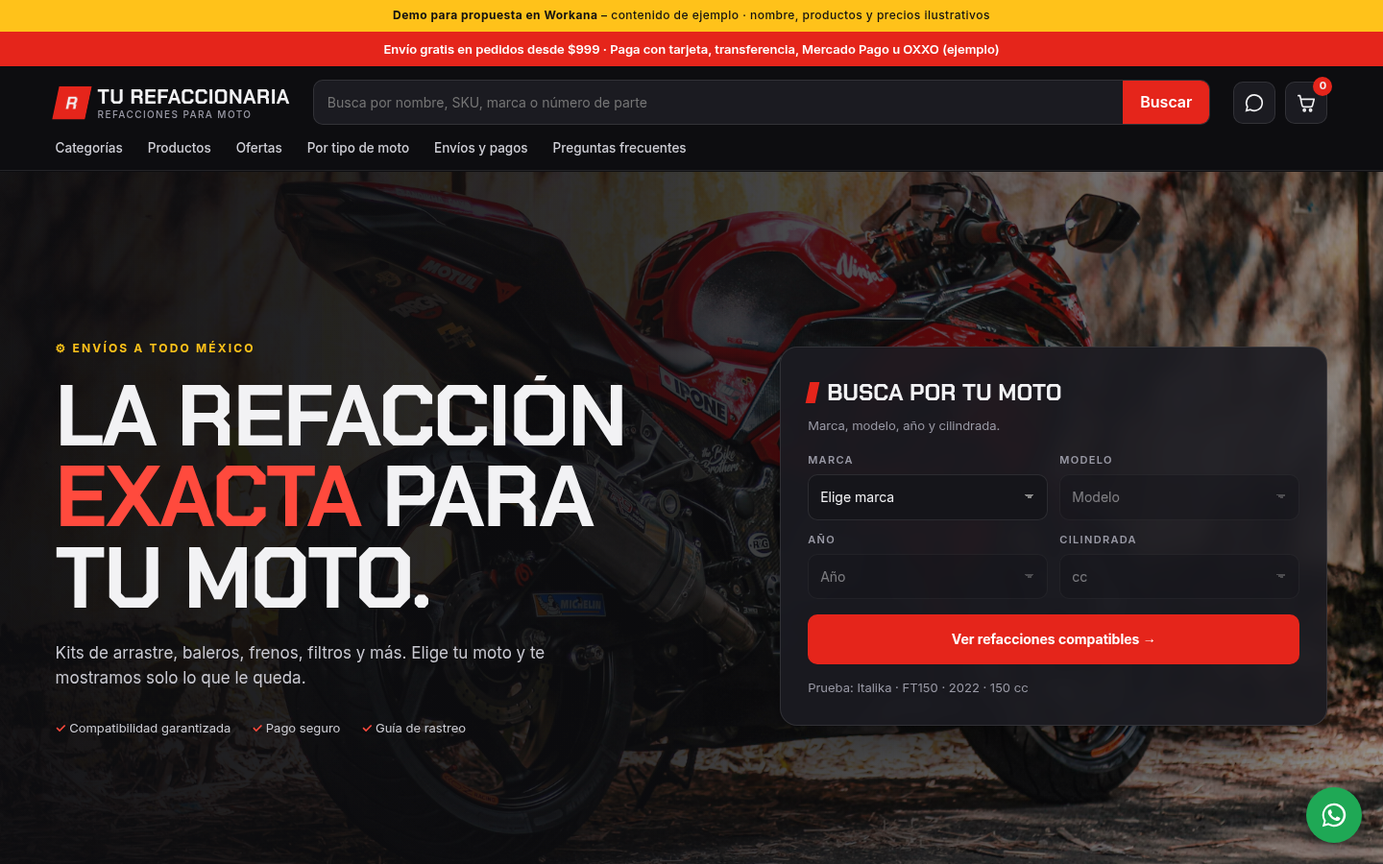
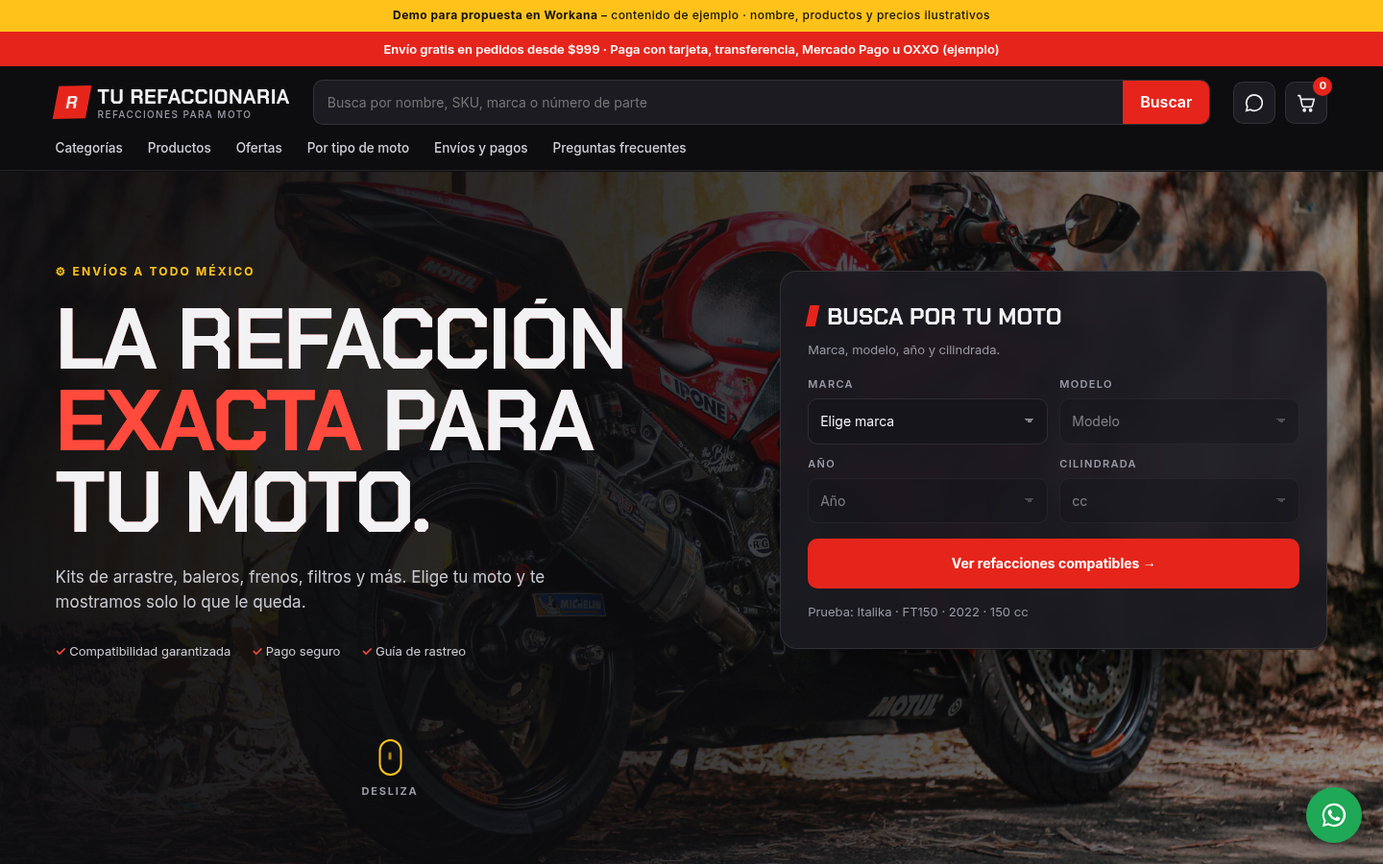
Portar las animaciones de Padel by Champions al demo de refacciones moto.
Mantiene el contenido, colores, buscador YMM/SKU, carrito, cupón MOTO15 y la barra de envío gratis. Respeta prefers-reduced-motion.

diff --git a/index.html b/index.html
@@ -12,7 +12,10 @@
 <meta property="og:title" content="Tu Refaccionaria · Refacciones para moto con envío a todo México">
 <meta property="og:description" content="Encuentra la refacción exacta para tu moto: busca por marca, modelo, año y cilindrada.">
 <meta property="og:image" content="https://images.unsplash.com/photo-1580341289255-5b47c98a59dd?w=1200&h=630&fit=crop&q=75&auto=format">
+<!-- Demo con contenido de ejemplo: en el sitio real se quita "noindex" para que Google lo indexe -->
+<meta name="robots" content="noindex, follow">
 <meta name="theme-color" content="#0d0d10">
+<!-- anim: padel-port 2026-11-10 -->
 <link rel="preconnect" href="https://fonts.googleapis.com"><link rel="preconnect" href="https://fonts.gstatic.com" crossorigin>
 <link href="https://fonts.googleapis.com/css2?family=Chakra+Petch:wght@500;600;700&family=Inter:wght@400;500;600;700&display=swap" rel="stylesheet">
 <script type="application/ld+json">
@@ -202,9 +205,41 @@ footer a{text-decoration:none}footer a:hover{color:var(--text)}
  .htrack{width:auto;overflow-x:auto;scroll-snap-type:x mandatory;-webkit-overflow-scrolling:touch}
  .ty{width:78vw;height:50vh;scroll-snap-align:center}
 }
+
+html.lenis,html.lenis body{height:auto}
+.lenis.lenis-smooth{scroll-behavior:auto!important}
+/* padel-style motion layer, moto colors */
+.echo-wrap{position:relative;display:block}
+.echo-main{position:relative;z-index:1}
+.echo-ghost{position:absolute;left:0;right:0;top:0;margin:0!important;pointer-events:none;user-select:none;color:var(--red2)}
+.scroll-cue{position:absolute;left:50%;bottom:22px;transform:translateX(-50%);z-index:3;display:flex;flex-direction:column;align-items:center;gap:8px;font-size:11px;font-weight:700;letter-spacing:.16em;text-transform:uppercase;color:var(--mute)}
+.scroll-cue i{display:block;width:24px;height:38px;border:2px solid var(--yel);border-radius:20px;position:relative}
+.scroll-cue i::after{content:"";position:absolute;left:50%;top:7px;width:3px;height:8px;margin-left:-1.5px;border-radius:2px;background:var(--yel);animation:cue 1.6s infinite}
+@keyframes cue{0%{transform:translateY(0);opacity:1}70%{transform:translateY(14px);opacity:0}100%{opacity:0}}
+header.top{transition:top .45s cubic-bezier(.2,.7,.2,1),background .45s,box-shadow .45s}
+header.top.is-away{top:-280px}
+header.top.is-scrolled{box-shadow:0 10px 30px -18px rgba(0,0,0,.8)}
+.menu a.is-on{color:var(--red2)}
+.dots{background-image:radial-gradient(rgba(229,37,27,.14) 1.4px,transparent 1.6px);background-size:22px 22px}
+.cats,.perks{background-size:22px 22px}
+#progress{position:fixed;left:0;right:0;top:0;height:3px;background:var(--red);transform:scaleX(0);transform-origin:0 50%;z-index:100;pointer-events:none}
+#cursor{position:fixed;left:0;top:0;width:14px;height:14px;margin:-7px 0 0 -7px;border-radius:50%;background:var(--yel);z-index:120;pointer-events:none;mix-blend-mode:difference;transition:width .3s,height .3s,margin .3s;opacity:0}
+#cursor.on{opacity:1}
+#cursor.big{width:54px;height:54px;margin:-27px 0 0 -27px}
+html.has-cursor,html.has-cursor *{cursor:none!important}
+html.has-cursor input,html.has-cursor textarea,html.has-cursor select{cursor:text!important}
+.burst{position:absolute;width:10px;height:10px;border-radius:50%;background:var(--yel);pointer-events:none;z-index:5}
+.p,.ty,.pk div,.chip{transform-style:preserve-3d}
+.sec-motion{position:relative;z-index:10}
+.js .hero-anim,.js [data-load]{opacity:0}
+html.reduced .echo-ghost{display:none}
+html.reduced .scroll-cue,html.reduced #cursor,html.reduced #progress{display:none}
+.drawer,.items{overscroll-behavior:contain}
+@media (max-width:900px){.scroll-cue{display:none}}
 @media (prefers-reduced-motion:reduce){
  *,*::before,*::after{animation:none!important;transition:none!important}
- .js .fade{opacity:1;transform:none}
+ .js .fade,.js .hero-anim,.js [data-load],.js #heroTitle .line>span{opacity:1;transform:none}
+ html.reduced .echo-ghost{display:none}
 }
 </style>
 </head>
@@ -227,12 +262,12 @@ footer a{text-decoration:none}footer a:hover{color:var(--text)}
 <section class="hero">
  <div class="hero-bg" id="heroBg" role="img" aria-label="Motocicleta deportiva roja (foto ilustrativa)"></div>
  <div>
-  <div class="kick hero-anim">⚙ Envíos a todo México</div>
-  <h1 id="heroTitle"><span class="line"><span>La refacción</span></span><span class="line"><span><em>exacta</em> para</span></span><span class="line"><span>tu moto.</span></span></h1>
-  <p class="hero-anim">Kits de arrastre, baleros, frenos, filtros y más. Elige tu moto y te mostramos solo lo que le queda.</p>
-  <div class="trust hero-anim"><span>Compatibilidad garantizada</span><span>Pago seguro</span><span>Guía de rastreo</span></div>
+  <div class="kick hero-anim" data-load>⚙ Envíos a todo México</div>
+  <h1 id="heroTitle" data-echo><span class="line"><span>La refacción</span></span><span class="line"><span><em>exacta</em> para</span></span><span class="line"><span>tu moto.</span></span></h1>
+  <p class="hero-anim" data-load>Kits de arrastre, baleros, frenos, filtros y más. Elige tu moto y te mostramos solo lo que le queda.</p>
+  <div class="trust hero-anim" data-load><span>Compatibilidad garantizada</span><span>Pago seguro</span><span>Guía de rastreo</span></div>
  </div>
- <form class="finder hero-anim" id="finder" aria-label="Buscador por motocicleta">
+ <form class="finder hero-anim" id="finder" data-load aria-label="Buscador por motocicleta">
   <h2>Busca por tu moto</h2>
   <p class="s">Marca, modelo, año y cilindrada.</p>
   <div class="fgrid">
@@ -244,16 +279,17 @@ footer a{text-decoration:none}footer a:hover{color:var(--text)}
   <button class="btn btn-red" type="submit">Ver refacciones compatibles →</button>
   <div class="myMoto" id="myMoto">Prueba: Italika · FT150 · 2022 · 150 cc</div>
  </form>
+ <div class="scroll-cue" data-load><i></i>Desliza</div>
 </section>
 
-<section class="cats" id="categorias">
+<section class="cats dots sec-motion" id="categorias">
  <div class="wrap">
-  <div class="head"><div><div class="label fade">Categorías</div><h2 class="h2 fade">Compra por categoría</h2></div><p class="sub fade">Las 14 categorías iniciales del proyecto, con subcategorías y filtro por marca de refacción.</p></div>
+  <div class="head"><div><div class="label fade">Categorías</div><h2 class="h2 fade" data-echo>Compra por categoría</h2></div><p class="sub fade">Las 14 categorías iniciales del proyecto, con subcategorías y filtro por marca de refacción.</p></div>
   <div class="chips" id="chips"></div>
  </div>
 </section>
 
-<section class="shop" id="tienda">
+<section class="shop sec-motion" id="tienda">
  <div class="wrap">
   <div class="head"><div><div class="label">Tienda</div><h2 class="h2" id="shopTitle">Productos destacados</h2></div></div>
   <div class="status" id="status"></div>
@@ -266,7 +302,7 @@ footer a{text-decoration:none}footer a:hover{color:var(--text)}
  <div class="deal-bg" id="dealBg"></div>
  <div class="deal-in">
   <div class="big" id="dealBig">-15%</div>
-  <h2>En kits de arrastre</h2>
+  <h2 data-echo>En kits de arrastre</h2>
   <div class="code">MOTO15</div><br>
   <a class="btn btn-red" href="#tienda" data-cat="kits">Ver kits de arrastre →</a>
   <small>Cupón de ejemplo: pruébalo en el carrito.</small>
@@ -276,7 +312,7 @@ footer a{text-decoration:none}footer a:hover{color:var(--text)}
 <div class="brands" aria-hidden="true"><div class="tk"><span>Italika</span><span>Honda</span><span>Yamaha</span><span>Suzuki</span><span>Bajaj</span><span>Vento</span><span>KTM</span><span>Kawasaki</span><span>Italika</span><span>Honda</span><span>Yamaha</span><span>Suzuki</span><span>Bajaj</span><span>Vento</span><span>KTM</span><span>Kawasaki</span></div></div>
 
 <section class="types" id="tipos">
- <div class="t-head"><div class="label">Por tipo de moto</div><h2 class="h2">¿Qué manejas?</h2></div>
+ <div class="t-head"><div class="label">Por tipo de moto</div><h2 class="h2" data-echo>¿Qué manejas?</h2></div>
  <div class="htrack" id="htrack">
   <a class="ty" href="#tienda"><img src="https://images.unsplash.com/photo-1558981806-ec527fa84c39?w=900&q=70&auto=format" alt="" loading="lazy"><div><h3>Trabajo</h3><p>Refacciones para motos de reparto y uso diario.</p><small>Foto ilustrativa</small></div></a>
   <a class="ty" href="#tienda"><img src="https://images.unsplash.com/photo-1609630875171-b1321377ee65?w=900&q=70&auto=format" alt="" loading="lazy"><div><h3>Deportiva</h3><p>Frenos, cadenas y filtros de alto desempeño.</p><small>Foto ilustrativa</small></div></a>
@@ -286,9 +322,9 @@ footer a{text-decoration:none}footer a:hover{color:var(--text)}
  </div>
 </section>
 
-<section class="perks" id="ayuda">
+<section class="perks dots sec-motion" id="ayuda">
  <div class="wrap">
-  <div class="head"><div><div class="label fade">Envíos y pagos</div><h2 class="h2 fade">Compra fácil, llega rápido</h2></div><p class="sub fade">Pagos y paqueterías integrados en Shopify: confirmación automática, guías y rastreo.</p></div>
+  <div class="head"><div><div class="label fade">Envíos y pagos</div><h2 class="h2 fade" data-echo>Compra fácil, llega rápido</h2></div><p class="sub fade">Pagos y paqueterías integrados en Shopify: confirmación automática, guías y rastreo.</p></div>
   <div class="pk">
    <div class="fade"><svg viewBox="0 0 24 24" fill="none" stroke="currentColor" stroke-width="1.8"><path d="M3 7h11v9H3zM14 10h4l3 3v3h-7"/><circle cx="7" cy="17.5" r="1.8"/><circle cx="17" cy="17.5" r="1.8"/></svg><b>Envíos a todo México</b><p>Cotización al momento, guía automática y número de rastreo por correo.</p></div>
    <div class="fade"><svg viewBox="0 0 24 24" fill="none" stroke="currentColor" stroke-width="1.8"><rect x="3" y="6" width="18" height="12" rx="2"/><path d="M3 10h18"/></svg><b>Pago seguro</b><p>Tarjeta de crédito y débito, transferencia, Mercado Pago y pago en efectivo.</p></div>
@@ -299,9 +335,9 @@ footer a{text-decoration:none}footer a:hover{color:var(--text)}
  </div>
 </section>
 
-<section class="faq" id="faq">
+<section class="faq sec-motion" id="faq">
  <div class="wrap faq-grid">
-  <div><div class="label fade">Ayuda</div><h2 class="h2 fade">Preguntas frecuentes</h2><p class="sub fade" style="margin-top:14px">Más páginas de la tienda: Nosotros, Contacto, Políticas de envío, Devoluciones y Aviso de privacidad.</p></div>
+  <div><div class="label fade">Ayuda</div><h2 class="h2 fade" data-echo>Preguntas frecuentes</h2><p class="sub fade" style="margin-top:14px">Más páginas de la tienda: Nosotros, Contacto, Políticas de envío, Devoluciones y Aviso de privacidad.</p></div>
   <div class="fade">
    <details open><summary>¿Cómo sé si una pieza le queda a mi moto?</summary><p>Usa el buscador por moto: elige marca, modelo, año y cilindrada y solo verás piezas compatibles. También puedes buscar por número de parte.</p></details>
    <details><summary>¿Cuánto tarda mi envío?</summary><p>De 2 a 5 días hábiles según tu ciudad (ejemplo). Recibes tu guía de rastreo por correo.</p></details>
@@ -311,7 +347,7 @@ footer a{text-decoration:none}footer a:hover{color:var(--text)}
  </div>
 </section>
 
-<footer>
+<footer class="sec-motion">
  <div class="fcols">
   <div><a class="logo" href="#top" style="color:#fff"><i>R</i><span>TU REFACCIONARIA<small>Refacciones para moto</small></span></a><p style="margin-top:14px;max-width:320px">Refacciones, accesorios y componentes para motocicleta con envío a todo México.</p></div>
   <div><h4>Tienda</h4><ul><li><a href="#categorias">Categorías</a></li><li><a href="#ofertas">Ofertas</a></li><li><a href="#tipos">Por tipo de moto</a></li></ul></div>
@@ -322,7 +358,7 @@ footer a{text-decoration:none}footer a:hover{color:var(--text)}
 </footer>
 
 <div class="scrim" id="scrim"></div>
-<aside class="drawer" id="drawer" aria-label="Carrito" aria-hidden="true">
+<aside class="drawer" id="drawer" data-lenis-prevent aria-label="Carrito" aria-hidden="true">
  <div class="dh"><h3>Tu carrito</h3><button id="closeCart" aria-label="Cerrar carrito">×</button></div>
  <div class="ship" id="ship"></div>
  <div class="items" id="items"></div>
@@ -450,38 +486,163 @@ footer a{text-decoration:none}footer a:hover{color:var(--text)}
   var left=FREE-(sub-disc);document.getElementById('ship').innerHTML=(left>0?'Te faltan <b>'+money(left)+'</b> para envío gratis':'<b>¡Tienes envío gratis!</b>')+'<div class="pb"><i style="width:'+Math.min(100,(sub-disc)/FREE*100)+'%"></i></div>';
   var c=document.getElementById('count');c.textContent=n;if(G&&n)gsap.fromTo(c,{scale:1.6},{scale:1,duration:.5,ease:'back.out(3)'});
  }
- grid.addEventListener('click',function(e){var b=e.target.closest('.add');if(!b||b.disabled)return;cart[b.dataset.id]=(cart[b.dataset.id]||0)+1;drawCart();toast('Agregado al carrito ✓')});
+ grid.addEventListener('click',function(e){var b=e.target.closest('.add');if(!b||b.disabled)return;cart[b.dataset.id]=(cart[b.dataset.id]||0)+1;drawCart();toast('Agregado al carrito ✓');if(window.FX&&FX.burst)FX.burst(b);if(window.FX&&FX.pop)FX.pop(b)});
  document.getElementById('items').addEventListener('click',function(e){var i=e.target.dataset.i,d=e.target.dataset.d;if(i)cart[i]++;if(d){cart[d]--;if(!cart[d])delete cart[d]}drawCart()});
- document.getElementById('cpnBtn').onclick=function(){coupon=document.getElementById('cpn').value.trim().toUpperCase()==='MOTO15';toast(coupon?'Cupón MOTO15 aplicado a kits de arrastre':'Cupón no válido');drawCart()};
+ document.getElementById('cpnBtn').onclick=function(){var inp=document.getElementById('cpn');coupon=inp.value.trim().toUpperCase()==='MOTO15';toast(coupon?'Cupón MOTO15 aplicado a kits de arrastre':'Cupón no válido');drawCart();if(coupon&&window.FX&&FX.burst)FX.burst(inp);if(!coupon&&window.FX&&FX.shake)FX.shake(inp)};
  document.getElementById('checkout').onclick=function(){toast('Demo: aquí iría el checkout de Shopify')};
  document.querySelectorAll('.wa-link').forEach(function(a){a.href='https://wa.me/?text='+encodeURIComponent('Hola, busco una refacción para mi moto.');a.target='_blank';a.rel='noopener'});
- /* ---------- SCROLL / ANIM ---------- */
+
+ /* ---------- SCROLL / ANIM (port of Padel by Champions motion) ---------- */
  var lenis=null;
- function go(sel){var t=document.querySelector(sel);if(!t)return;if(lenis)lenis.scrollTo(t,{offset:-120});else t.scrollIntoView({behavior:reduce?'auto':'smooth'})}
+ window.FX={pop:function(){},shake:function(){},burst:function(){}};
+ function go(sel){var t=document.querySelector(sel);if(!t)return;if(lenis)lenis.scrollTo(t,{offset:-120,duration:1.4});else t.scrollIntoView({behavior:reduce?'auto':'smooth'})}
  drawCart();render();
- if(reduce||!window.gsap||!window.ScrollTrigger)return;
- document.documentElement.classList.add('js');
+ if(!window.gsap||!window.ScrollTrigger)return;
  gsap.registerPlugin(ScrollTrigger);
- if(window.Lenis){lenis=new Lenis({lerp:.1,smoothWheel:true});lenis.on('scroll',ScrollTrigger.update);gsap.ticker.add(function(t){lenis.raf(t*1000)});gsap.ticker.lagSmoothing(0);
-  document.querySelectorAll('a[href^="#"]:not(.wa-link):not([data-cat])').forEach(function(a){a.addEventListener('click',function(e){var h=a.getAttribute('href');if(h.length>1&&document.querySelector(h)){e.preventDefault();go(h)}})})}
- gsap.from('#heroTitle .line>span',{yPercent:110,duration:1.1,ease:'power4.out',stagger:.1,delay:.15});
- gsap.from('.hero-anim',{y:30,opacity:0,duration:1,ease:'power3.out',stagger:.12,delay:.5});
- gsap.fromTo('#heroBg',{scale:1.2},{scale:1.04,duration:2.6,ease:'power2.out'});
+ if(reduce){document.documentElement.classList.add('reduced');return}
+ document.documentElement.classList.add('js');
+ if(window.Lenis){lenis=new Lenis({lerp:.09,smoothWheel:true});lenis.on('scroll',ScrollTrigger.update);gsap.ticker.add(function(t){lenis.raf(t*1000)});gsap.ticker.lagSmoothing(0)}
+ document.querySelectorAll('a[href^="#"]:not(.wa-link):not([data-cat])').forEach(function(a){a.addEventListener('click',function(e){var h=a.getAttribute('href');if(h.length>1&&document.querySelector(h)){e.preventDefault();go(h)}})});
+
+ var vh=function(n){return function(){return innerHeight*n/100}};
+ var topNav=document.getElementById('top'),lastY=0;
+ ScrollTrigger.create({start:0,end:'max',onUpdate:function(self){var y=self.scroll();topNav.classList.toggle('is-scrolled',y>40);topNav.classList.toggle('is-away',y>innerHeight*.9&&y>lastY&&!document.body.classList.contains('open'));lastY=y}});
+
+ /* echo headlines: 3 trailing copies that lag on scroll */
+ var OPS=[.5,.28,.12];
+ function makeEcho(el){
+  var wrap=document.createElement('div');wrap.className='echo-wrap';
+  el.parentNode.insertBefore(wrap,el);wrap.appendChild(el);el.classList.add('echo-main');
+  var layers=[el];
+  OPS.forEach(function(op){var g=el.cloneNode(true);g.removeAttribute('data-echo');g.removeAttribute('id');g.classList.remove('echo-main','fade');g.classList.add('echo-ghost');g.setAttribute('aria-hidden','true');g.style.opacity=op;wrap.insertBefore(g,el);layers.push(g)});
+  return layers;
+ }
+ var echoes=new Map();
+ document.querySelectorAll('[data-echo]').forEach(function(el){echoes.set(el,makeEcho(el))});
+ function echoRise(main,opts){
+  opts=opts||{};var layers=echoes.get(main);if(!layers)return;
+  var from=opts.from!=null?opts.from:180,start=opts.start||'top 98%',end=opts.end||'top 45%',trig=opts.trigger;
+  layers.forEach(function(l,i){gsap.fromTo(l,{y:from},{y:0,ease:'none',scrollTrigger:{trigger:trig||main.parentNode,start:start,end:end,scrub:.25+i*.55}})});
+ }
+
+ /* HERO intro */
+ gsap.set('.hero h1 .line>span',{y:0,yPercent:115});
+ gsap.set('[data-load],.hero-anim',{y:24,autoAlpha:0});
+ gsap.set('.bar > *,.menu',{y:-24,autoAlpha:0});
+ var intro=gsap.timeline({delay:.15,defaults:{ease:'expo.out'}});
+ intro.fromTo('#heroBg',{scale:1.28,autoAlpha:.7},{scale:1.04,autoAlpha:1,duration:2.4,ease:'power2.out'},0)
+  .to('.bar > *,.menu',{y:0,autoAlpha:1,duration:1,stagger:.06},.15)
+  .to('.hero h1 .line>span',{y:0,yPercent:0,duration:1.3,stagger:.06,ease:'expo.out'},.4)
+  .to('.kick,.hero p,.trust,.finder,.scroll-cue',{y:0,autoAlpha:1,duration:1,stagger:.1},.7);
  gsap.to('#heroBg',{yPercent:14,ease:'none',scrollTrigger:{trigger:'.hero',start:'top top',end:'bottom top',scrub:true}});
- gsap.utils.toArray('.fade').forEach(function(el){gsap.to(el,{opacity:1,y:0,duration:1,ease:'power3.out',scrollTrigger:{trigger:el,start:'top 90%'}})});
- gsap.from('.chip',{opacity:0,y:40,scale:.9,duration:.7,stagger:.04,ease:'power3.out',scrollTrigger:{trigger:'#chips',start:'top 85%'}});
+ gsap.to('.scroll-cue',{y:8,duration:1.2,yoyo:true,repeat:-1,ease:'sine.inOut'});
+ gsap.to('.logo i',{rotate:-4,y:-2,duration:2.2,yoyo:true,repeat:-1,ease:'sine.inOut'});
+ (echoes.get(document.getElementById('heroTitle'))||[]).forEach(function(l,i){
+  gsap.fromTo(l,{y:0},{y:vh(-40),ease:'none',immediateRender:false,scrollTrigger:{trigger:'.hero',start:'top top',end:'bottom top',scrub:.25+i*.55,invalidateOnRefresh:true}});
+ });
+ gsap.fromTo(['.kick','.hero p','.trust'],{autoAlpha:1,y:0},{autoAlpha:0,y:-50,ease:'none',immediateRender:false,scrollTrigger:{trigger:'.hero',start:'top top',end:'35% top',scrub:true}});
+ 
+ gsap.fromTo('.scroll-cue',{autoAlpha:1},{autoAlpha:0,ease:'none',immediateRender:false,scrollTrigger:{trigger:'.hero',start:'5% top',end:'30% top',scrub:true}});
+
+ echoRise(document.querySelector('#categorias [data-echo]'),{trigger:'#categorias .head',start:'top 95%',end:'top 40%'});
+  echoRise(document.querySelector('#ofertas [data-echo]'),{trigger:'.deal-in',start:'top 90%',end:'top 30%'});
+ echoRise(document.querySelector('#tipos [data-echo]'),{trigger:'.t-head',start:'top 95%',end:'top 40%'});
+ echoRise(document.querySelector('#ayuda [data-echo]'),{trigger:'#ayuda .head',start:'top 95%',end:'top 40%'});
+ echoRise(document.querySelector('#faq [data-echo]'),{trigger:'#faq .wrap > div',start:'top 95%',end:'top 40%'});
+
+ gsap.utils.toArray('.fade:not(.echo-main)').forEach(function(el){gsap.fromTo(el,{autoAlpha:0,y:34},{autoAlpha:1,y:0,duration:1,ease:'expo.out',scrollTrigger:{trigger:el,start:'top 90%'}})});
+ gsap.from('.chip',{opacity:0,y:40,scale:.9,duration:.7,stagger:.04,ease:'expo.out',scrollTrigger:{trigger:'#chips',start:'top 85%'}});
+
  var mm=gsap.matchMedia();
  mm.add('(min-width: 901px)',function(){
   var tl=gsap.timeline({scrollTrigger:{trigger:'.deal',start:'top top',end:'+=120%',pin:true,scrub:.8}});
   tl.fromTo('#dealBg',{scale:1.3,rotate:-3},{scale:1,rotate:0,ease:'none'},0).fromTo('#dealBig',{scale:.5,opacity:0,rotate:-8},{scale:1,opacity:1,rotate:0,ease:'power2.out'},0).from('.deal-in > *:not(.big)',{y:40,opacity:0,stagger:.08},.3);
   var track=document.getElementById('htrack');
   var ht=gsap.to(track,{x:function(){return -(track.scrollWidth-innerWidth)},ease:'none',scrollTrigger:{trigger:'.types',start:'top top',end:function(){return '+='+(track.scrollWidth-innerWidth)},pin:true,scrub:.8,invalidateOnRefresh:true}});
-  gsap.utils.toArray('.ty img').forEach(function(img){gsap.fromTo(img,{xPercent:-7},{xPercent:7,ease:'none',scrollTrigger:{trigger:img.parentNode,containerAnimation:ht,start:'left right',end:'right left',scrub:true}})});
+  gsap.utils.toArray('.ty img').forEach(function(img){gsap.fromTo(img,{xPercent:-7,scale:1.3},{xPercent:7,scale:1,ease:'none',scrollTrigger:{trigger:img.parentNode,containerAnimation:ht,start:'left right',end:'right left',scrub:true}})});
  });
  mm.add('(max-width: 900px)',function(){
   gsap.fromTo('#dealBg',{scale:1.3},{scale:1,ease:'none',scrollTrigger:{trigger:'.deal',start:'top bottom',end:'bottom top',scrub:true}});
   gsap.from('#dealBig',{scale:.6,opacity:0,duration:1,ease:'back.out(2)',scrollTrigger:{trigger:'.deal',start:'top 70%'}});
  });
+
+ /* perk cards rise at staggered speeds, like padel cards */
+ gsap.utils.toArray('.pk > div').forEach(function(c,i){
+  gsap.fromTo(c,{y:[80,130,90,160][i]},{y:0,ease:'none',scrollTrigger:{trigger:'.pk',start:'top bottom',end:'top 50%',scrub:true}});
+ });
+ gsap.utils.toArray('.ty img').forEach(function(im){
+  if(innerWidth<=900)gsap.fromTo(im,{scale:1.25},{scale:1,ease:'none',scrollTrigger:{trigger:im,start:'top bottom',end:'bottom 40%',scrub:true}});
+ });
+
+ /* dotted texture drifts */
+ gsap.utils.toArray('.dots').forEach(function(d){gsap.to(d,{backgroundPosition:'0px -220px',ease:'none',scrollTrigger:{trigger:d,start:'top bottom',end:'bottom top',scrub:true}})});
+
+ /* sections slide over the previous one: rounded inset edges open up */
+ gsap.utils.toArray('.sec-motion').forEach(function(sec){
+  gsap.fromTo(sec,{clipPath:'inset(5% 3% 0% 3% round 36px)'},{clipPath:'inset(0% 0% 0% 0% round 0px)',ease:'none',scrollTrigger:{trigger:sec,start:'top bottom',end:'top 15%',scrub:true}});
+ });
+
+ /* batch reveals */
+ var batchUp=function(sel,vars){vars=vars||{};ScrollTrigger.batch(sel,{start:'top 92%',once:true,onEnter:function(els){gsap.fromTo(els,{y:vars.y!=null?vars.y:34,autoAlpha:0,scale:vars.scale!=null?vars.scale:1,rotate:vars.rotate||0},{y:0,autoAlpha:1,scale:1,rotate:0,duration:vars.d||.9,stagger:vars.st||.06,ease:vars.ease||'expo.out',overwrite:true})}})};
+ batchUp('.pk svg',{scale:0,rotate:-90,ease:'back.out(2.4)'});
+ batchUp('.pays span',{y:20,scale:.85,st:.04,ease:'back.out(2)',d:.6});
+ batchUp('details',{y:28,st:.08});
+ batchUp('footer .fcols > div',{y:40,st:.08,d:1});
+ batchUp('footer .disclaimer',{y:16});
+
+ /* scroll progress line */
+ var prog=document.createElement('div');prog.id='progress';document.body.appendChild(prog);
+ gsap.to(prog,{scaleX:1,ease:'none',scrollTrigger:{start:0,end:'max',scrub:.3}});
+
+ /* active menu pill follows the section in view */
+ document.querySelectorAll('.menu a[href^="#"]').forEach(function(p){var t=document.querySelector(p.getAttribute('href'));if(!t)return;
+  ScrollTrigger.create({trigger:t,start:'top 50%',end:'bottom 50%',onToggle:function(self){p.classList.toggle('is-on',self.isActive)}})});
+
+ /* interaction FX */
+ FX.pop=function(el){gsap.fromTo(el,{scale:.82},{scale:1,duration:.5,ease:'back.out(3)'})};
+ FX.shake=function(el){gsap.fromTo(el,{x:-12},{x:0,duration:.6,ease:'elastic.out(1.2,.25)'})};
+ FX.burst=function(el){
+  var r=el.getBoundingClientRect();
+  for(var i=0;i<12;i++){
+   (function(){
+    var d=document.createElement('i');d.className='burst';d.style.background=i%2?'var(--yel)':'var(--red)';d.style.position='fixed';d.style.left=(r.left+r.width/2)+'px';d.style.top=(r.top+r.height/2)+'px';
+    document.body.appendChild(d);
+    gsap.to(d,{x:(Math.random()*2-1)*90,y:(Math.random()*2-1)*90,scale:0,autoAlpha:0,duration:.7+Math.random()*.4,ease:'power3.out',onComplete:function(){if(d.parentNode)d.parentNode.removeChild(d)}});
+   })();
+  }
+ };
+
+ /* magnetic buttons + 3D-tilting photos/cards (mouse only) */
+ mm.add('(hover:hover) and (pointer:fine)',function(){
+  document.documentElement.classList.add('has-cursor');
+  var cur=document.createElement('div');cur.id='cursor';document.body.appendChild(cur);
+  var cx=gsap.quickTo(cur,'left',{duration:.25,ease:'power3'}),cy=gsap.quickTo(cur,'top',{duration:.25,ease:'power3'});
+  addEventListener('pointermove',function(e){cx(e.clientX);cy(e.clientY);cur.classList.add('on')});
+  addEventListener('pointerleave',function(){cur.classList.remove('on')});
+  var grow='.btn,.chip,.add,.ib,.ty,.p,.logo,.fab';
+  document.addEventListener('pointerover',function(e){if(e.target.closest(grow))cur.classList.add('big')});
+  document.addEventListener('pointerout',function(e){if(e.target.closest(grow)&&(!e.relatedTarget||!e.relatedTarget.closest||!e.relatedTarget.closest(grow)))cur.classList.remove('big')});
+  function magnetize(b){
+   if(b.dataset.mag)return;b.dataset.mag='1';
+   var mx=gsap.quickTo(b,'x',{duration:.4,ease:'power3'}),my=gsap.quickTo(b,'y',{duration:.4,ease:'power3'});
+   b.addEventListener('pointermove',function(e){var r=b.getBoundingClientRect();mx((e.clientX-r.left-r.width/2)*.25);my((e.clientY-r.top-r.height/2)*.35)});
+   b.addEventListener('pointerleave',function(){mx(0);my(0)});
+  }
+  document.querySelectorAll('.btn,.chip,.ib,.fab').forEach(magnetize);
+  function tilt(host){
+   if(host.dataset.tilt)return;host.dataset.tilt='1';
+   gsap.set(host,{transformPerspective:800});
+   var target=host.querySelector('img')||host;
+   var rx=gsap.quickTo(target,'rotationX',{duration:.5,ease:'power3'}),ry=gsap.quickTo(target,'rotationY',{duration:.5,ease:'power3'});
+   host.addEventListener('pointermove',function(e){var r=host.getBoundingClientRect();ry(((e.clientX-r.left)/r.width-.5)*14);rx(-((e.clientY-r.top)/r.height-.5)*14)});
+   host.addEventListener('pointerleave',function(){rx(0);ry(0)});
+  }
+  document.querySelectorAll('.ty').forEach(tilt);
+  var obs=new MutationObserver(function(){document.querySelectorAll('.p').forEach(tilt);document.querySelectorAll('.add,.btn').forEach(magnetize)});
+  obs.observe(document.getElementById('pgrid'),{childList:true});
+  document.querySelectorAll('.p').forEach(tilt);
+ });
+
  addEventListener('load',function(){ScrollTrigger.refresh()});
 })();
 </script>
